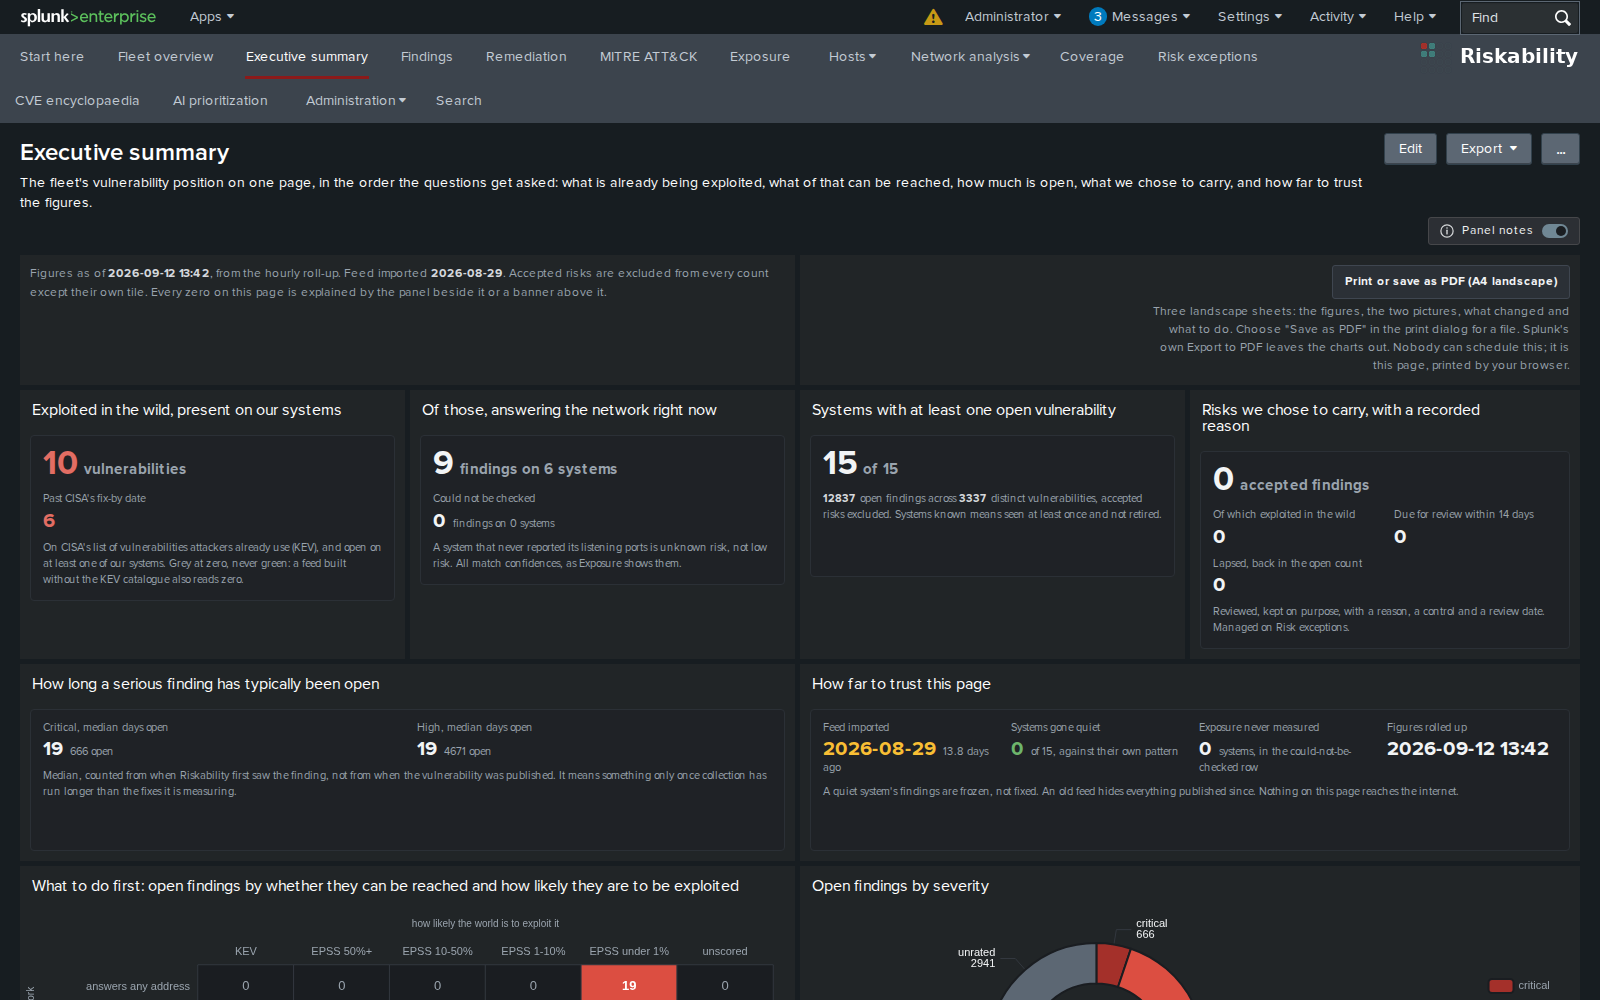
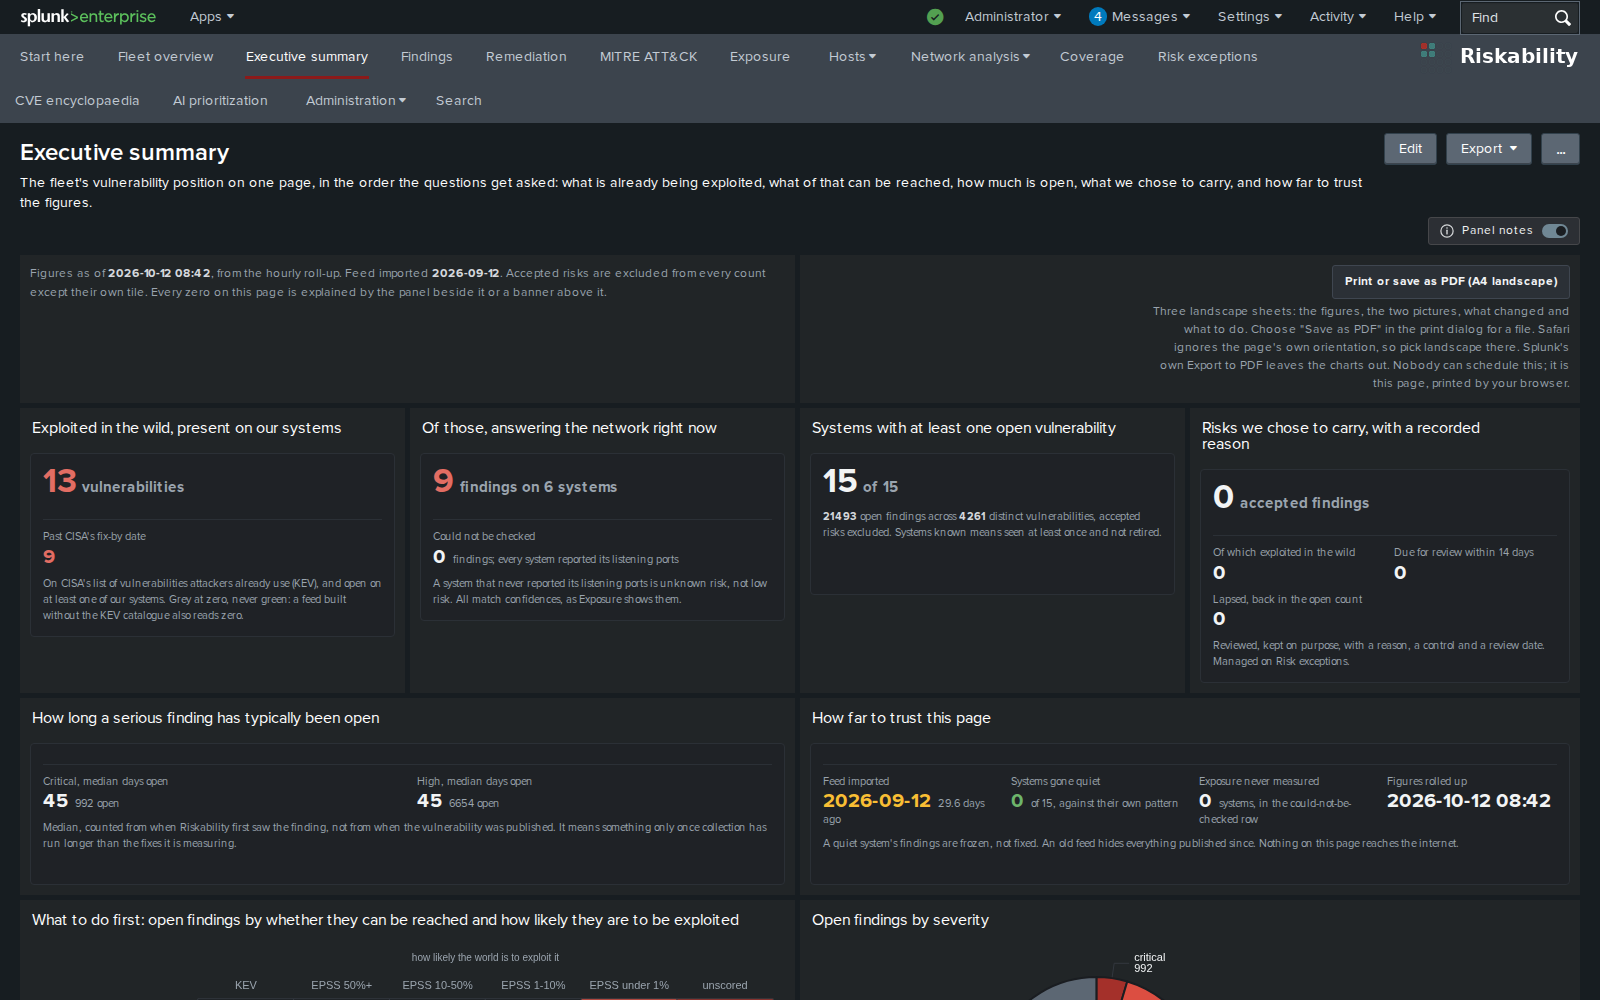
Colour the reachable headline on the executive page, and say why could-not-be-checked is zero
The "answering the network right now" figure was plain white next to a
red KEV figure, so it read as a number with no verdict. It is now red
when any exploited vulnerability answers the network and grey at zero,
as the tile beside it. The could-not-be-checked fact read "0 findings on
0 systems", which explains nothing; at zero it now says every system
reported its listening ports. The facts sit under a rule with each label
hugging its own number, because "Could not be checked" sat so close to
the headline that it read as a caption on the figure above it.

Claude-Session: https://claude.ai/code/session_015h4XPQmzofVzmoNycK2dQN

diff --git a/app/riskability/appserver/static/riskability_executive.css b/app/riskability/appserver/static/riskability_executive.css
@@ -44,10 +44,17 @@
 }
 .rk-exec-sub b { color: #d5d8dc; font-weight: 600; }
 
+/* The facts sit under a rule, clear of the headline above them, and each
+   label hugs its own number. Without the rule a label such as "Could not be
+   checked" read as a caption on the headline figure above it rather than
+   the name of the number below it. */
 .rk-exec-facts {
   display: grid;
   grid-template-columns: repeat(auto-fit, minmax(150px, 1fr));
   gap: 8px 18px;
+  margin-top: 10px;
+  padding-top: 9px;
+  border-top: 1px solid #2b3036;
 }
 .rk-exec-facts-two { grid-template-columns: 1fr 1fr; }
 .rk-exec-fact {
@@ -59,7 +66,7 @@
   display: block;
   color: #9aa2ab;
   font-size: 11px;
-  margin-bottom: 3px;
+  margin-bottom: 1px;
 }
 .rk-exec-fact b {
   color: #f2f4f5;
@@ -201,6 +208,7 @@
   .single-value .single-result { color: #24292e; }
 
   .rk-exec-card { border-color: #d5d8dc !important; min-height: 0; }
+  .rk-exec-facts { border-top-color: #d5d8dc !important; }
   .rk-exec-big, .rk-exec-fact b, .rk-exec-asof b, .rk-exec-sub b, .rk-exec-plain b { color: #24292e !important; }
   .rk-exec-big small, .rk-exec-sub, .rk-exec-fact, .rk-exec-fact span, .rk-exec-asof { color: #5c6773 !important; }
   .rk-exec-alarm b  { color: #a4302a !important; }
